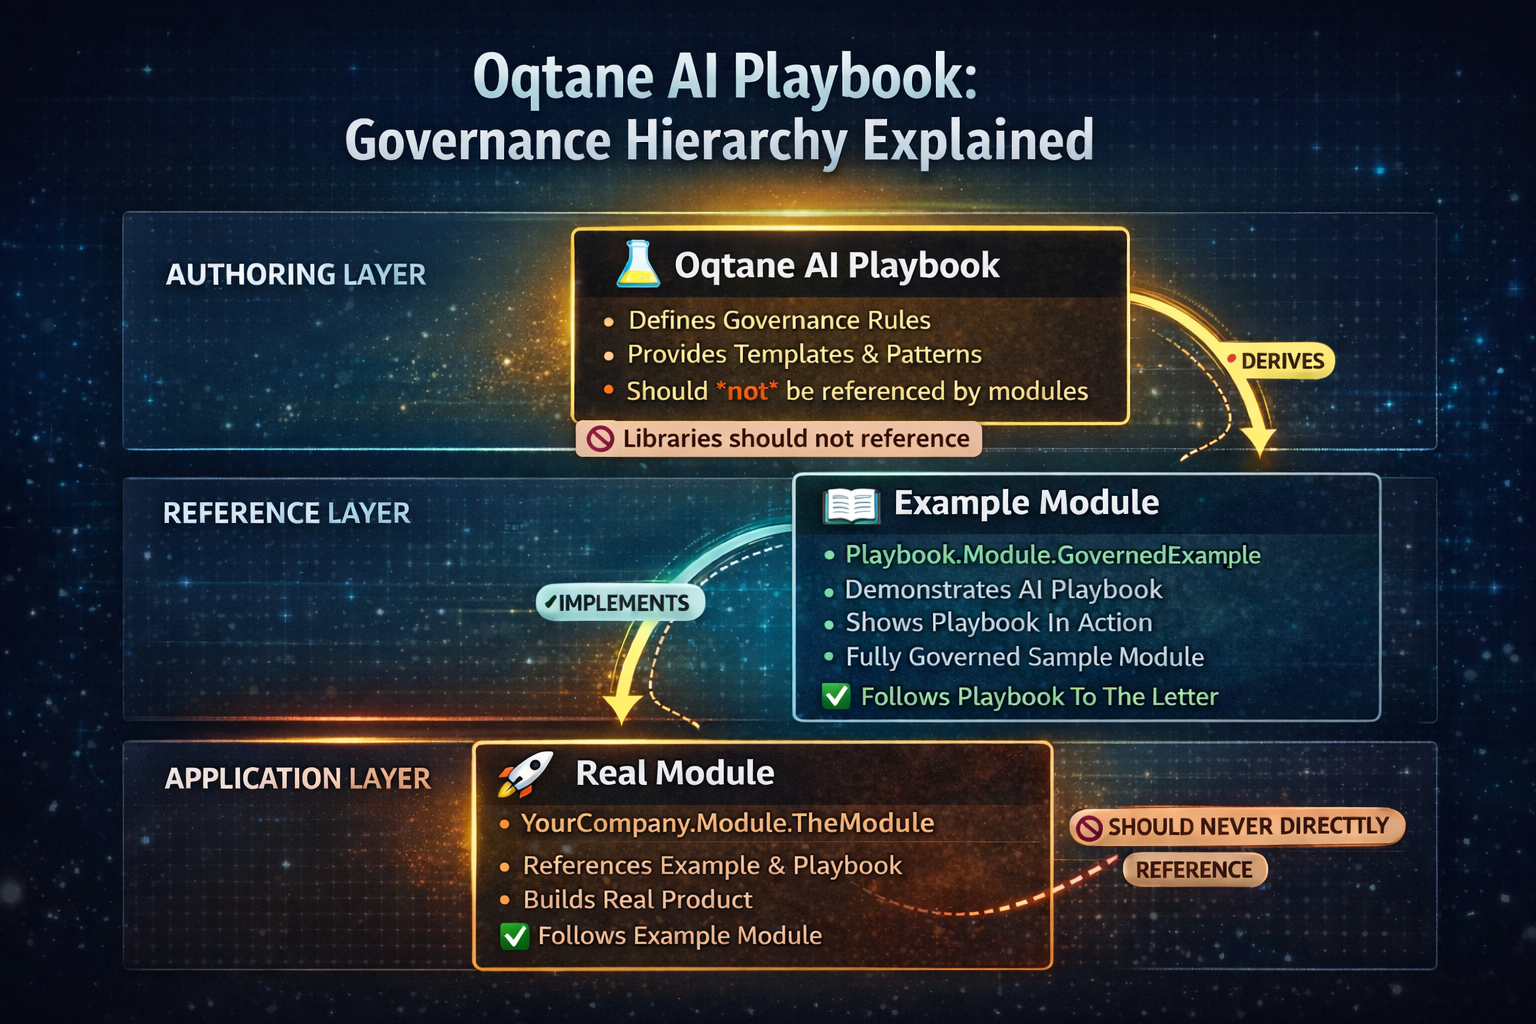
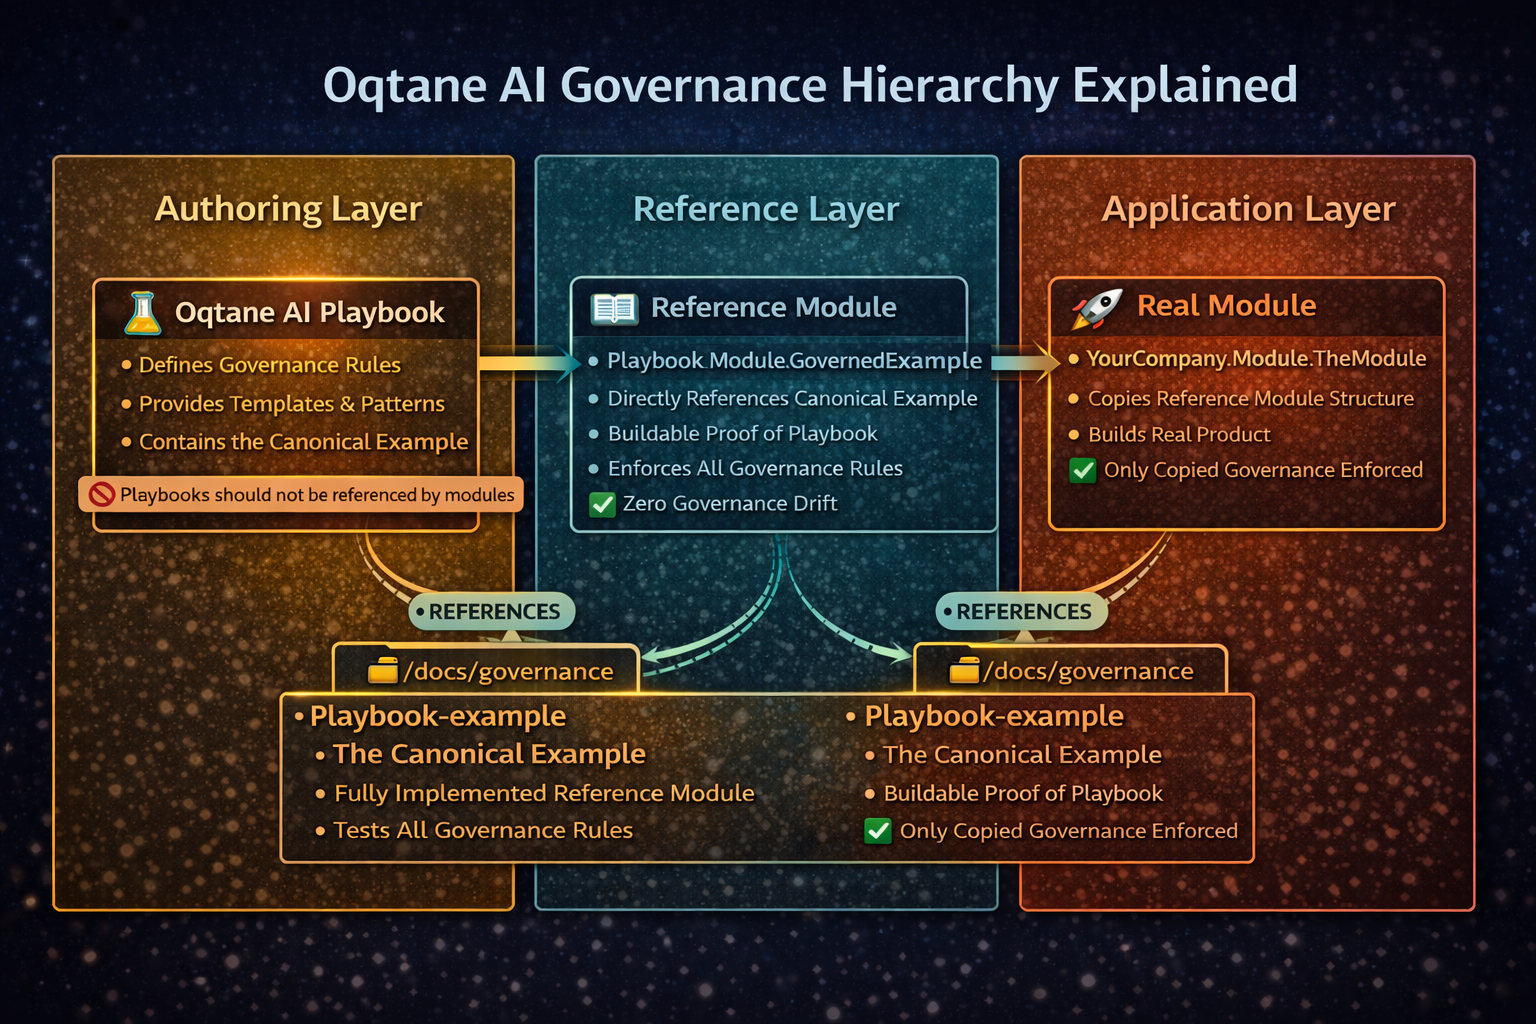
Add playbook example README and update governance diagram
Added a comprehensive README to the playbook-example directory, providing guidance on how to use the reference module for Oqtane AI governance. Updated the Oqtane-AI-PlaybookGovernanceHierarchy.png diagram to reflect the latest governance hierarchy.

diff --git a/playbook-example/README.md b/playbook-example/README.md
@@ -1,0 +1,195 @@
+ # Playbook-Example
+
+**Canonical, Governed Reference Module for Oqtane AI Development**
+
+## What This Is
+
+**Playbook-example*- is a **fully governed, working reference module*- that demonstrates how the Oqtane AI Playbook is meant to be applied in practice.
+
+It is:
+
+- A **living, buildable example**
+- A **canonical reference implementation**
+- The **bridge*- between abstract governance rules and real Oqtane modules
+
+> 
+> You **do not*- reference the *Oqtane AI Playbook- directly in your application modules.
+> You reference **this example**.
+
+---
+
+## What This Is *Not*
+
+- ❌ Not a framework
+- ❌ Not a template generator
+- ❌ Not something you deploy to production
+- ❌ Not something application modules depend on at runtime
+
+It exists purely to make governance **concrete, testable, and trustworthy**.
+
+---
+
+## Governance Model (One Sentence)
+
+> 
+> **Rules are authored in the Oqtane AI Playbook, proven in Playbook-example, and then copied or referenced by real modules.**
+
+---
+
+## Repository Role in the 3-Layer Model
+
+| Layer | Purpose |
+| --- | --- |
+| **Authoring Layer*- | Oqtane AI Playbook (rules, templates, governance logic) |
+| **Reference Layer*- | **Playbook-example (this repo)*- |
+| **Application Layer*- | Your real modules |
+
+Only the **Reference Layer*- is meant to be *looked at- by application modules.
+
+---
+
+## Folder Structure (Canonical)
+
+Playbook-example mirrors the exact structure expected in a governed module:
+
+```
+.github/
+└── copilot-instructions.md
+
+docs/
+├── ai-decision-timeline.md
+├── deviations.md
+├── governance/
+│   ├── 027-rules-index.md
+│   ├── 027x-*.md
+│   └── README.md
+└── prompts/
+    ├── README.md
+    ├── ui.md
+    ├── services.md
+    └── diagnostics.md
+```
+
+This structure is **intentional*- and **enforced**.
+
+---
+
+## How to Use Playbook-Example in a Solution
+
+### Important Principle
+
+> 
+> **Files must be visible in the IDE solution to be seen by Copilot.Folders alone are ignored.**
+
+You **do not copy*- these files into your module.
+You **reference them*- using *Add Existing Item*.
+
+---
+
+## Step-by-Step: Wiring Playbook-Example into Visual Studio
+
+### 1. Create Solution Folders
+
+In your module solution, create the following **solution folders**:
+
+```
+.github
+docs
+docs/governance
+docs/prompts
+```
+
+> 
+> These are *solution folders*, not physical folders.
+
+---
+
+### 2. Add Files Using “Add Existing Item”
+
+For each folder:
+
+1. Right-click the **solution folder**
+2. Choose **Add → Existing Item…**
+3. Browse to the corresponding file in **Playbook-example**
+4. Add it
+
+Example paths:
+
+```
+Playbook-example/.github/copilot-instructions.md
+Playbook-example/docs/ai-decision-timeline.md
+Playbook-example/docs/deviations.md
+Playbook-example/docs/governance/027-rules-index.md
+Playbook-example/docs/governance/027x-ui-construction.md
+Playbook-example/docs/prompts/ui.md
+```
+
+✔ Files remain **single-source**
+✔ No duplication
+✔ Governance stays in sync
+
+---
+
+### 3. Verify Copilot Visibility
+
+Ask Copilot:
+
+> 
+> **“Summarize the non-negotiable rules you must follow in this repository.”**
+
+If wired correctly, Copilot will:
+
+- Reference `027-rules-index.md`
+- Cite specific `027x-*` rules
+- Mention the AI Decision Timeline
+- Refuse invalid requests
+
+If it doesn’t → refresh Copilot and re-check file visibility.
+
+---
+
+## Why This Matters
+
+Without Playbook-example:
+
+- Rules feel theoretical
+- Trust in AI output is low
+- Developers second-guess governance
+
+With Playbook-example:
+
+- AI can **prove*- behavior
+- Developers can **compare*- implementations
+- Governance becomes **observable and enforceable**
+
+---
+
+## How Real Modules Use This
+
+Your real module:
+
+- References **Playbook-example**
+- Copies or links only the files it needs
+- May opt-in to additional rules (e.g. localization, MudBlazor)
+- Never references the authoring playbook directly
+
+This keeps adoption **low-friction*- and **developer-friendly**.
+
+---
+
+## Summary
+
+- **Oqtane AI Playbook*- → writes the rules
+- **Playbook-example*- → proves the rules work
+- **Your module*- → safely adopts the rules
+
+If you want AI you can trust,
+**this reference layer is non-optional**.
+
+---
+
+If you want, next we can:
+
+- Add a **“First sanity prompt” checklist**
+- Add a **badge system*- for opt-in rules
+- Or write the README for **YourCompany.Module.TheModule*- that references this example cleanly
